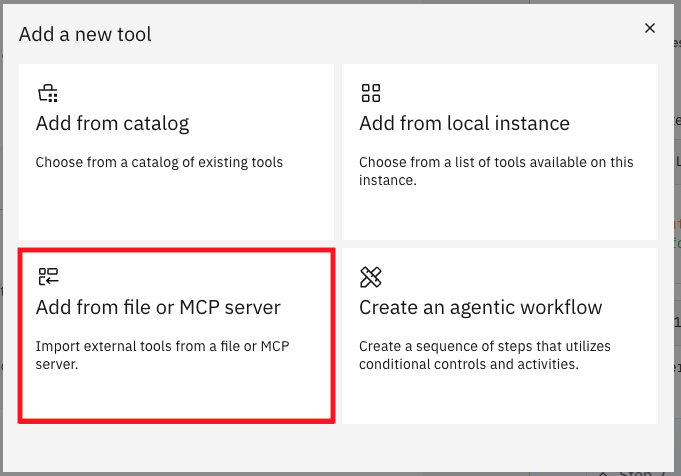
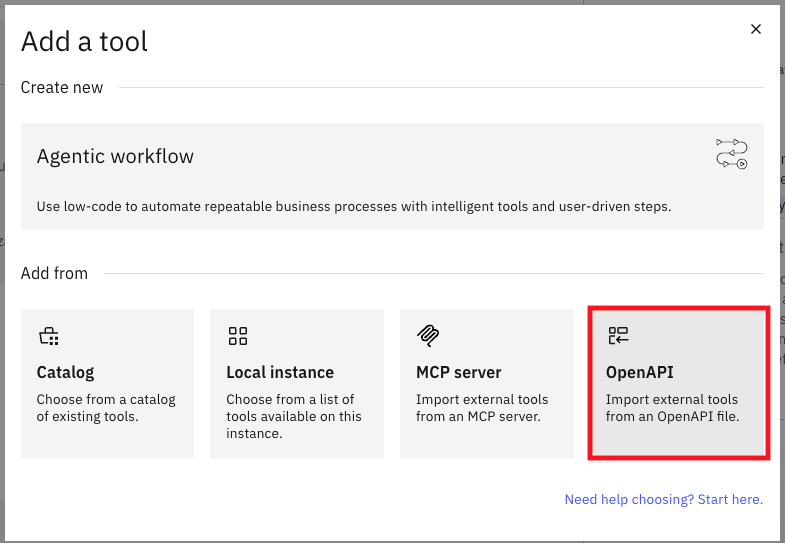
update images

diff --git a/Lab Instuctions/readme.md b/Lab Instuctions/readme.md
@@ -154,13 +154,9 @@ This Agent handles special banking operations for GFM Bank that require elevated
 
   ![Add Tool](./backoffice_ag_imgs/i3.png)
 
-- Click on **Add from file or MCP server**.
+- Click on **OpenAPI**.
 
   ![Import file](./backoffice_ag_imgs/i4.png)
-
-- Click on **Import from file**
-
-  ![Import from file](./backoffice_ag_imgs/i16.png)
 
 - Upload the `bank.json` API spec provided by the instructor.
 
@@ -200,10 +196,11 @@ This Agent handles special banking operations for GFM Bank that require elevated
   
   Maintain a professional tone with appropriate formality for a banking representative with elevated privileges.
   ```
-
-- Since this agent will be a collaborator agent and will be invoked by GFM Bank Orchestrator, we don't want to enable it for direct chat on the chat homepage. Disable the **Show agent** feature in the **Channels** section.
-
   ![Instructions](./backoffice_ag_imgs/i11.png)
+
+- Since this agent will be a collaborator agent and will be invoked by GFM Bank Orchestrator, we don't want to enable it for direct chat on the chat homepage. Disable the **Home Page** toggle in the **Channels** section.
+
+  ![Instructions](./backoffice_ag_imgs/i11a.png)
 
 #### Test and deploy the GFM Back Office Agent
 
@@ -268,13 +265,9 @@ This Agent assists customers with everyday banking tasks such as balance inquiri
 
   ![Add Tool](./teller_ag_imgs/i6.png)
 
-- Click on **Add from file or MCP Server**.
+- Click on **OpenAPI**.
 
   ![Import](./teller_ag_imgs/i7.png)
-
-- Click on **Import from file**.
-
-  ![Import from file](./teller_ag_imgs/i21.png)
 
 - Upload the `bank.json` API spec provided by the instructor. Once the file is uploaded, select **Next**.
   
@@ -334,7 +327,7 @@ This Agent assists customers with everyday banking tasks such as balance inquiri
   | May 13     | Purchase  | -30 EUR | Grocery Store        |
   ```
 
-- Since this agent will be a collaborator agent and will be invoked by GFM Bank Orchestrator Agent, we don't want to enable it for direct chat on the chat homepage. Disable the **Show agent** feature.
+- Since this agent will be a collaborator agent and will be invoked by GFM Bank Orchestrator Agent, we don't want to enable it for direct chat on the chat homepage. Disable the **Home page** toggle.
 
   ![Show agent toggle](./teller_ag_imgs/i14.png)
 
@@ -397,9 +390,13 @@ This Agent acts as the trusted expert on all banking products and services offer
 
   ![Select model](./prod_info_ag_imgs/i14.png)
 
-- In the **Knowledge source** section. click on **Choose knowledge**.
+- In the **Knowledge source** section. click on **Add source**.
 
   ![Choose knowledge](./prod_info_ag_imgs/i13.png)
+
+- Choose **New knowledge**
+
+  ![New knowledge](./prod_info_ag_imgs/i13a.png)
 
 - Click on **Upload files** and then **Next**.
 
@@ -413,6 +410,12 @@ This Agent acts as the trusted expert on all banking products and services offer
 
   
   ![Upload Documents](./prod_info_ag_imgs/i11.png)
+
+- In the **Name** section, add the name
+
+  ```
+  GFM Product Information
+  ```
 
 - In the **Description** section, add the following, then click **Save**:
 
@@ -473,9 +476,12 @@ This Agent acts as the trusted expert on all banking products and services offer
   Use plain language, analogies, or step-by-step instructions.
 
   ```
-- Since this agent will be a collaborator agent and will be invoked by GFM Bank Orchestrator, we don't want to enable it for direct chat on the chat homepage. Disable the **Show agent** toggle
 
   ![Disable toggle](./prod_info_ag_imgs/i5.png)
+- Since this agent will be a collaborator agent and will be invoked by GFM Bank Orchestrator, we don't want to enable it for direct chat on the chat homepage. Disable the **Home page** toggle
+
+
+  ![Disable toggle](./prod_info_ag_imgs/i5a.png)
 
 #### Test the and deploy GFM Product Information Agent
 
